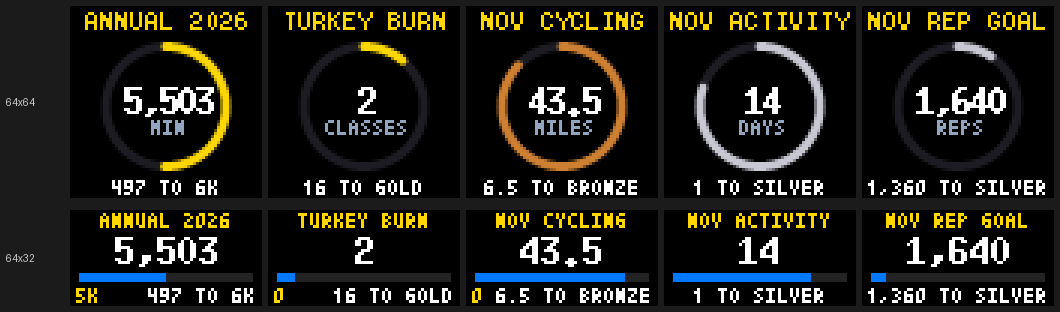
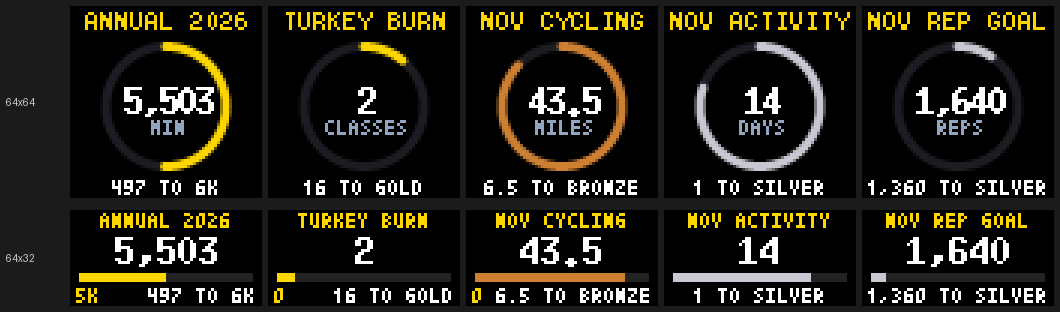
Challenges: 64x32 bar in the next tier's colour

diff --git a/tests/test_challenges.py b/tests/test_challenges.py
@@ -7,7 +7,7 @@ import pytest
 import requests
 
 from display.display import get_text_width, initialize_fonts, loaded_fonts
-from display.ui.challenge_screen import (BLUE, GOLD, INTRO_SECONDS, RING_TRACK, SWEEP_SECONDS, TIER_COLORS, ChallengeScreen,
+from display.ui.challenge_screen import (GOLD, INTRO_SECONDS, RING_TRACK, SWEEP_SECONDS, TIER_COLORS, ChallengeScreen,
                                          compact_number, counted_shown, fitted_title, ring_pixels, tier_color)
 from peloton import dashboard as dashboard_module
 from peloton.cache import load_snapshot, save_snapshot
@@ -382,7 +382,19 @@ def test_the_32_row_bottom_line_puts_the_tier_left_when_both_fit():
     assert lit(annual, GOLD, range(25, 32)), '5K in gold on the left'
     rep = draw(slim_challenge(LARGEST[1]), 32)
     assert not lit(rep, TIER_COLORS['BRONZE'], range(25, 32)), '1,360 TO SILVER alone, centred'
-    assert len(lit(rep, BLUE, range(21, 24))) == 5 * 3, '140 of the 1,500 to 3,000: 5 of 58 columns'
+    assert len(lit(rep, TIER_COLORS['SILVER'], range(21, 24))) == 5 * 3, '140 of the 1,500 to 3,000: 5 of 58 columns'
+
+
+def test_the_32_row_bar_is_in_the_next_tiers_colour_like_the_ring():
+    initialize_fonts(32)
+    rows = range(21, 24)
+    to_silver = draw(slim_challenge(LARGEST[1]), 32)
+    assert lit(to_silver, TIER_COLORS['SILVER'], rows) and not lit(to_silver, TIER_COLORS['BRONZE'], rows)
+    to_bronze = draw(slim_challenge(LARGEST[4]), 32)
+    assert not lit(to_bronze, TIER_COLORS['SILVER'], rows) and lit(to_bronze, TIER_COLORS['BRONZE'], rows)
+    to_numbered = draw(slim_challenge(entry()), 32)  # 5K to 6K
+    assert lit(to_numbered, GOLD, rows)
+    assert lit(to_numbered, (0, 120, 255), rows) == set(), 'never the old blue'
 
 
 def test_the_ring_fills_clockwise_from_twelve_in_the_next_tiers_colour():
@@ -563,16 +575,17 @@ def test_the_biggest_values_count_up_inside_the_ring_and_the_bar(raw):
 
 def test_the_32_row_bar_fills_from_the_left_in_step_with_the_number():
     state = INTRO_CASES[3]  # 18,000 of 15,000-18,000: full
-    full = {x for x, _ in lit(draw(state, 32), BLUE, range(21, 24))}
+    colour = tier_color(state['next']['title'])
+    full = {x for x, _ in lit(draw(state, 32), colour, range(21, 24))}
     previous = -1
     for t in FRAMES:
         matrix = draw(state, 32, t)
-        bar = {x for x, _ in lit(matrix, BLUE, range(21, 24))}
+        bar = {x for x, _ in lit(matrix, colour, range(21, 24))}
         assert bar == set(range(3, 3 + len(bar))), 'filled from the left, no gaps'
         assert len(bar) >= previous and bar <= full
         previous = len(bar)
     assert previous == len(full) == 58
-    assert not lit(draw(state, 32, 0), BLUE, range(21, 24)), 'empty to begin with'
+    assert not lit(draw(state, 32, 0), colour, range(21, 24)), 'empty to begin with'
     assert lit(draw(state, 32, 0), (255, 255, 255), range(8, 19)), '0 before it counts'
 
 

diff --git a/display/ui/challenge_screen.py b/display/ui/challenge_screen.py
@@ -24,7 +24,6 @@ from .screen import Screen
 WHITE = (255, 255, 255)
 GOLD = (255, 215, 0)
 GREY = (145, 165, 190)
-BLUE = (0, 120, 255)
 BAR_TRACK = (35, 35, 35)
 RING_TRACK = (28, 28, 34)
 # Named tiers in their own colour; numbered ones (`6K`) and any other name in gold.
@@ -280,9 +279,10 @@ class ChallengeScreen(Screen):
         number = counted_shown(state['shown'], grown)
         _centre(matrix, large, 18, WHITE, compact_number(number) if compact else number)
         left, right, top = 3, 60, 21
+        bar = tier_color(state['next']['title'])
         filled = round((right - left + 1) * tier_progress(state) * grown)
         for x in range(left, right + 1):
-            color = BLUE if x < left + filled else BAR_TRACK
+            color = bar if x < left + filled else BAR_TRACK
             for y in range(top, top + 3):
                 matrix.SetPixel(x, y, *color)
         line = remaining_line(state, small, 60)

diff --git a/docs/64x32-NOTES.md b/docs/64x32-NOTES.md
@@ -243,7 +243,7 @@ text pages, revert the `lifetime_overview_pages(... page_size=...)` change in
 - Every other page is unchanged on both boards.
 
 ### Challenges (both boards, 2026-11-14)
-- 64x64 is the ring ("C1", `docs/dev/ROTATION.md`); there's no room for it on 32 rows, so 64x32 is layout "A" from the same mock-ups: the title in gold 4x6 at baseline 6 (words dropped from the end past 64 px, never a leading month: `NOV REP GOAL`, `SEP STRENGTH REP`), the number in 7x13B at 18 (`123K` past 62 px), a 3-row blue bar from column 3 to 60 at row 21 (tier to tier, over (35, 35, 35)), then at 31 the current tier in its colour at x 2 (`0` before the first) and `497 TO 6K` right-aligned to 61, or that line centred alone when both don't fit with 4 px between (`BRONZE` + `1,360 TO SILVER`). No unit on 32 rows.
+- 64x64 is the ring ("C1", `docs/dev/ROTATION.md`); there's no room for it on 32 rows, so 64x32 is layout "A" from the same mock-ups: the title in gold 4x6 at baseline 6 (words dropped from the end past 64 px, never a leading month: `NOV REP GOAL`, `SEP STRENGTH REP`), the number in 7x13B at 18 (`123K` past 62 px), a 3-row bar from column 3 to 60 at row 21 (tier to tier, filled in the next tier's colour like the 64x64 ring: bronze, silver, gold, numbered tiers gold; over (35, 35, 35)), then at 31 the current tier in its colour at x 2 (`0` before the first) and `497 TO 6K` right-aligned to 61, or that line centred alone when both don't fit with 4 px between (`BRONZE` + `1,360 TO SILVER`). No unit on 32 rows.
 - Intro (2026-11-15): the bar fills from the left to its length over 0.8 s with the same ease-out as the 64x64 ring while the number counts up from 0 (the same `counted_shown`; `123K` past 62 px counts in K); the title and bottom line are there from the first frame, there is no flash, and from `INTRO_SECONDS` (1 s) the page is the static layout above. The 64x64 ring moved up 3 rows in the same change (centre y 32.5); nothing on 64x32 moved.
 - Checked against the largest values (`tests/test_challenges.py` `LARGEST`): 5- and 6-digit numbers, `PLATINUM`, a long title, every unit, on both heights, nothing off the panel and no text over the ring.
 - Every other page is unchanged on both boards.

diff --git a/ROADMAP.md b/ROADMAP.md
@@ -16,6 +16,7 @@ Planned work. Each item is one branch and one PR into `develop-beta`; delete it 
 27 Similar-class figure beside a callout flag ── after cadence-missed-rule; 29 Re-measure the callout bars ── from 2027-02-15
 22 Icon touch-ups (by hand) ── independent
 30 Weekly goals from Peloton's Activity Goals ── independent; targets only (Peloton's week turns at UTC midnight)
+31 Redraw the 64x32 contact sheets ── independent
 ```
 
 Suggested order: 1, then the remaining items. Item 1 adds frames to a screen that shares its page time across frames (`peloton/screen_times.py`), so more stats mean a longer minimum page. Icon touch-ups (22) whenever Joel has time.
@@ -303,6 +304,9 @@ To decide when building: show it only with 5+ scored peers; where it goes on the
 
 ### 29. Re-measure the callout bars (from 2027-02-15)
 The bars were set on 2026-11-15 from the past year (cadence 12, resistance 20: the 90th percentile of both riders). About 90 days on, re-run the measurement (fires per rider; Jen's resistance median, 14 at the time): step resistance down to 17 by hand when her median is near 10 (in her good quarter, 17 fired on 3 of 13 rides; today it would fire on 10 of her last 36). The scripts were scratch (Fable's `sim.py` / `trend.py`); rebuild them from the private README's 2026-11-15 log entries. Depends on: nothing.
+
+### 31. Redraw the 64x32 contact sheets
+`docs/screenshots/64x32/` (`joel-rotation.png`, `jen-rotation.png`, `demo-rotation.png`; `docs/64x32-NOTES.md` points readers to them) was last drawn on 2026-10-18, before the challenges, next-class and Club Peloton pages and the workout insights, so it no longer shows the whole 32-row rotation. Redraw all three with `scripts/render_rotation.py --height 32` (the demo one with `--demo --insights`; Joel's and Jen's from their caches with `--config config.local.json`, never committing the caches), check every page against the 64x64 sheets, and fix anything that looks wrong as its own item. Found 2026-11-15 while redrawing the challenges screenshot. Depends on: nothing.
 
 ## Joel, by hand
 

diff --git a/README.md b/README.md
@@ -316,7 +316,7 @@ One page per weekly goal, showing current / target and a progress bar: **workout
 
 ![Challenges](docs/screenshots/rotation/challenges.png)
 
-One page per Peloton challenge you joined (the monthly challenges, The Annual, a series countdown), showing how far you are from the current tier to the next one. On 64x64 the title is gold, a ring fills clockwise in the next tier's colour (bronze, silver, gold; numbered tiers like `6K` in gold), your number and its unit sit inside it, and `497 TO 6K` runs along the bottom. On 64x32 it's the title, your number, a bar from tier to tier, then the tier you're on at the left and `497 TO 6K` at the right (centred on its own when both don't fit). Titles are shortened (`The Countdown to Turkey Burn Challenge` is `TURKEY BURN`, `November 2026 Rep Goal Challenge` is `NOV REP GOAL`: a monthly challenge keeps its month, abbreviated and in front, without the year), and `workouts` reads `CLASSES`.
+One page per Peloton challenge you joined (the monthly challenges, The Annual, a series countdown), showing how far you are from the current tier to the next one. On 64x64 the title is gold, a ring fills clockwise in the next tier's colour (bronze, silver, gold; numbered tiers like `6K` in gold), your number and its unit sit inside it, and `497 TO 6K` runs along the bottom. On 64x32 it's the title, your number, a bar from tier to tier in the same next-tier colour, then the tier you're on at the left and `497 TO 6K` at the right (centred on its own when both don't fit). Titles are shortened (`The Countdown to Turkey Burn Challenge` is `TURKEY BURN`, `November 2026 Rep Goal Challenge` is `NOV REP GOAL`: a monthly challenge keeps its month, abbreviated and in front, without the year), and `workouts` reads `CLASSES`.
 
 Each page opens with about a second of motion, then holds still: the ring (or the bar) fills from empty while the number counts up with it, and on 64x64 the ring's end flashes once as it lands. The screenshot shows the settled page.
 
